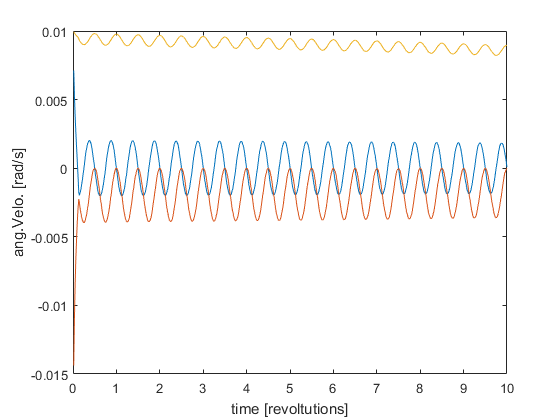
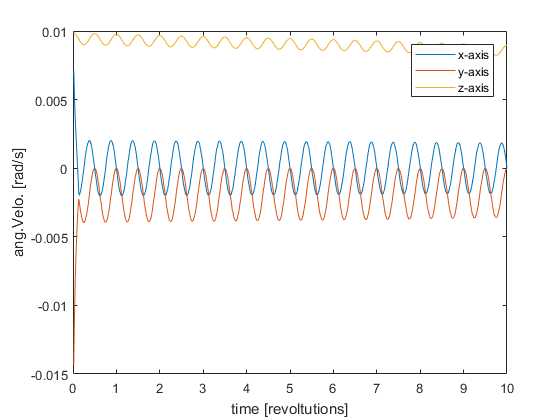
readme

diff --git a/Main.m b/Main.m
@@ -33,7 +33,7 @@ MU = 0.006;
 
 %-------- ATTITUDE CONTROL PARAMETERS--------------
 global PROPORTIONAL_COEFF;
-PROPORTIONAL_COEFF = 0.1;
+PROPORTIONAL_COEFF = 1;
 
 V0 = sqrt(GAMMA * EARTH_MASS / (EARTH_RADIUS+HEIGHT));
 
@@ -164,6 +164,7 @@ figure
 plot(plotTime,toPlotVelo);
 xlabel('time [revoltutions]');
 ylabel('ang.Velo. [rad/s]');
+legend('x-axis','y-axis','z-axis');
 
 %{
 figure
